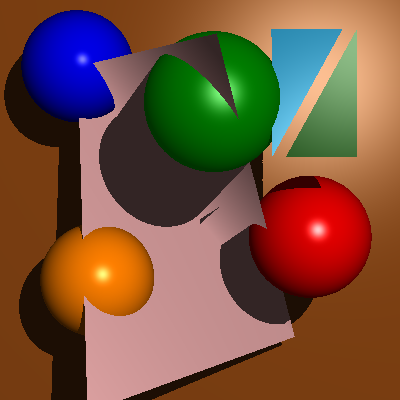
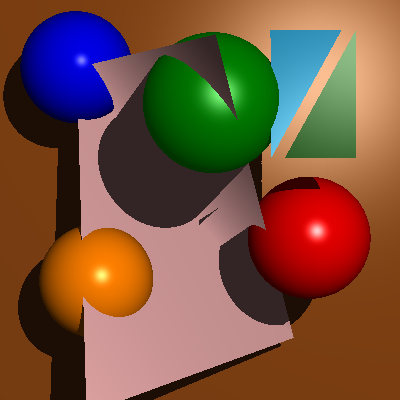
Refactored quad to be a mesh internally

diff --git a/Code/shapes/quad.cpp b/Code/shapes/quad.cpp
@@ -8,22 +8,7 @@ using namespace std;
 
 Hit Quad::intersect(Ray const &ray)
 {
-	// Find hit object and distance
-    Hit min_hit(numeric_limits<double>::infinity(), Vector());
-    ObjectPtr triangle = nullptr;
-    for (unsigned i = 0; i != triangles.size(); i++)
-    {
-        Hit hit(triangles[i]->intersect(ray));
-        if (hit.t < min_hit.t)
-        {
-            min_hit = hit;
-            triangle = triangles[i];
-        }
-    }
-
-    if (!triangle)
-    	return Hit::NO_HIT();
-	return min_hit;
+	return mesh.intersect(ray);
 }
 
 Quad::Quad(Point const &v0, Point const &v1, Point const &v2, Point const &v3)
@@ -38,8 +23,8 @@ Quad::Quad(Point const &v0, Point const &v1, Point const &v2, Point const &v3)
     Vector n3 = e2.cross(e3).normalized();
     Vector n2 = ((n1 + n3)/2).normalized(); //Average
 
-    triangles.push_back(ObjectPtr(new Triangle(v0, v1, v2, n2, n1, n2)));
-    triangles.push_back(ObjectPtr(new Triangle(v0, v2, v3, n2, n2, n3)));
+    mesh.addPolygon(new Triangle(v0, v1, v2, n2, n1, n2));
+    mesh.addPolygon(new Triangle(v0, v2, v3, n2, n2, n3));
 }
 
 Color Quad::colorAt(Point const &point) {

diff --git a/Code/shapes/quad.h b/Code/shapes/quad.h
@@ -2,17 +2,18 @@
 #define QUAD_H_
 
 #include "../object.h"
+#include "mesh.h"
 #include <vector>
 
 class Quad: public Object
 {
+	Mesh mesh;
+
     public:
         Quad(Point const &v0, Point const &v1, Point const &v2, Point const &v3);
 
         virtual Hit intersect(Ray const &ray);
         virtual Color colorAt(Point const &point);
-
-        std::vector<ObjectPtr> triangles;
 };
 
 #endif
